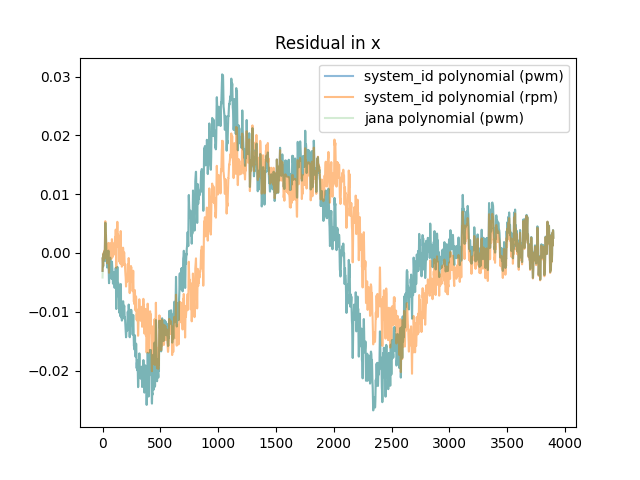
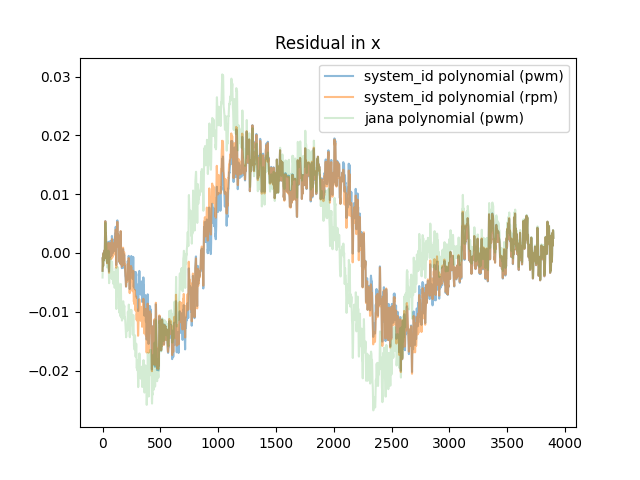
graph fix

Changed region(s): [[0.1562, 0.1562, 0.8125, 0.8438]]

diff --git a/on_fly_performace_data/residual_calculation.py b/on_fly_performace_data/residual_calculation.py
@@ -15,16 +15,16 @@ g2N = MultirotorConfig.g2N
 
 
 def thrust_torque(pwm_1, pwm_2, pwm_3, pwm_4, mv):
-    f_1 = (11.09-39.08*pwm_1-9.53*mv + 20.57*pwm_1**2 + 38.43*pwm_1*mv)*g2N
-    f_2 = (11.09-39.08*pwm_2-9.53*mv + 20.57*pwm_2**2 + 38.43*pwm_2*mv)*g2N
-    f_3 = (11.09-39.08*pwm_3-9.53*mv + 20.57*pwm_3**2 + 38.43*pwm_3*mv)*g2N
-    f_4 = (11.09-39.08*pwm_4-9.53*mv + 20.57*pwm_4**2 + 38.43*pwm_4*mv)*g2N
+    # f_1 = (11.09-39.08*pwm_1-9.53*mv + 20.57*pwm_1**2 + 38.43*pwm_1*mv)*g2N
+    # f_2 = (11.09-39.08*pwm_2-9.53*mv + 20.57*pwm_2**2 + 38.43*pwm_2*mv)*g2N
+    # f_3 = (11.09-39.08*pwm_3-9.53*mv + 20.57*pwm_3**2 + 38.43*pwm_3*mv)*g2N
+    # f_4 = (11.09-39.08*pwm_4-9.53*mv + 20.57*pwm_4**2 + 38.43*pwm_4*mv)*g2N
 
-    # poly_vals = [1.65049399e-09, 9.44396129e-05, -3.77748052e-01]
-    # f_1 = np.polyval(poly_vals, pwm_1) * g2N
-    # f_2 = np.polyval(poly_vals, pwm_2) * g2N
-    # f_3 = np.polyval(poly_vals, pwm_3) * g2N
-    # f_4 = np.polyval(poly_vals, pwm_4) * g2N
+    poly_vals = [1.65049399e-09, 9.44396129e-05, -3.77748052e-01]
+    f_1 = np.polyval(poly_vals, pwm_1) * g2N
+    f_2 = np.polyval(poly_vals, pwm_2) * g2N
+    f_3 = np.polyval(poly_vals, pwm_3) * g2N
+    f_4 = np.polyval(poly_vals, pwm_4) * g2N
 
     l = MultirotorConfig.DISTANCE_ARM
     t2t = MultirotorConfig.t2t
@@ -118,8 +118,8 @@ def residual(data, use_rpm=True, rot=False):
         if use_rpm:
             u = thrust_torque_rpm(*[data[f'rpm.m{j}'][i] for j in range(1, 5)])
         else:
-            # u = thrust_torque(*[data[f'pwm.m{j}_pwm'][i] for j in range(1, 5)], data['pm.vbatMV'][i])
-            u = thrust_torque(pwm_1[i], pwm_2[i], pwm_3[i], pwm_4[i], mv[i])
+            u = thrust_torque(*[data[f'pwm.m{j}_pwm'][i] for j in range(1, 5)], data['pm.vbatMV'][i])
+            # u = thrust_torque(pwm_1[i], pwm_2[i], pwm_3[i], pwm_4[i], mv[i])
 
         f_u = np.array([0, 0, u[0]])
         f_a = disturbance_forces(m, acc, R, f_u)
